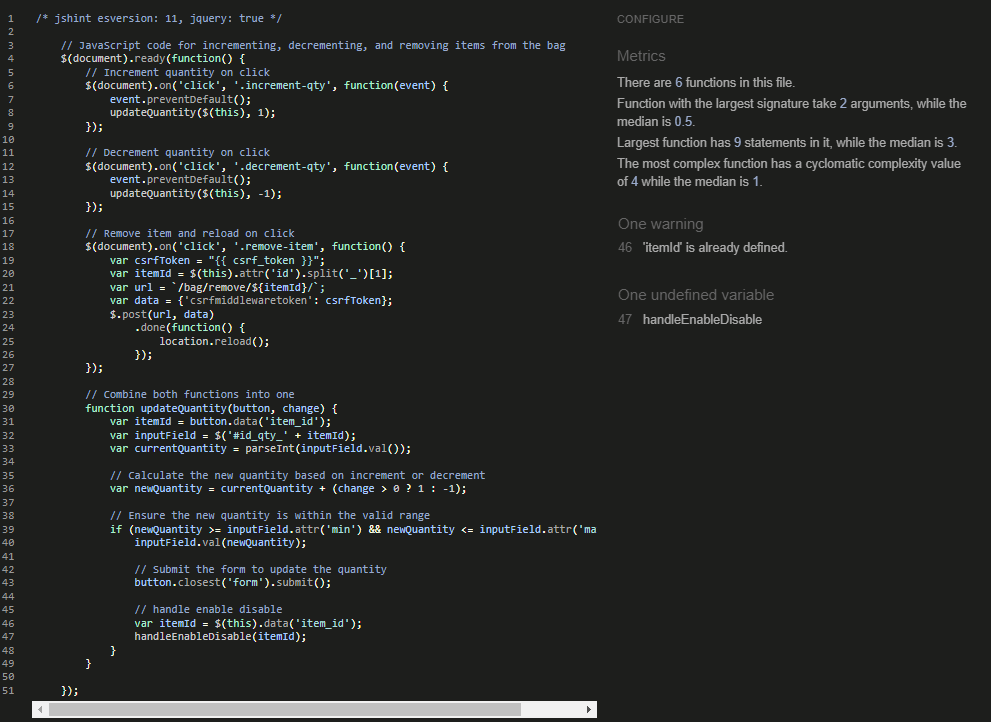
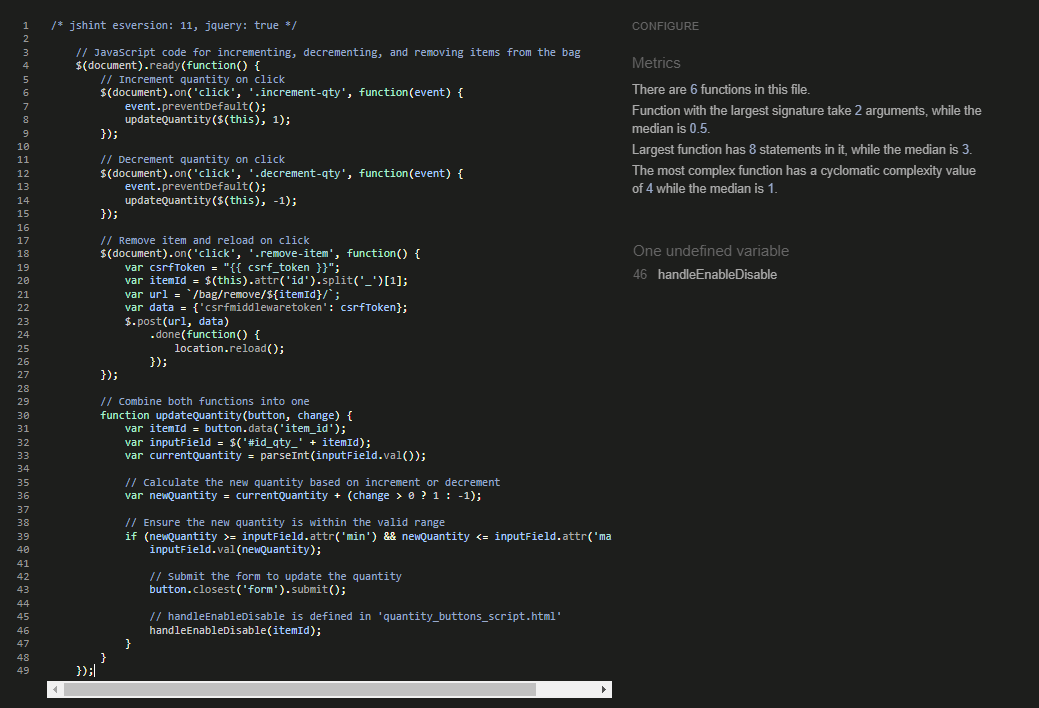
Rename quantity_buttons_script to enabledisable_buttons for clarity

diff --git a/bag/templates/bag/bag.html b/bag/templates/bag/bag.html
@@ -156,7 +156,7 @@
 {% block postloadjs %}
 {{ block.super }}
 <!-- Script for Quantity buttons enable and disable -->
-{% include 'products/includes/quantity_buttons_script.html' %}
+{% include 'products/includes/enabledisable_buttons_script.html' %}
 
 <script>
     /* jshint esversion: 11, jquery: true */
@@ -203,12 +203,10 @@
                 // Submit the form to update the quantity
                 button.closest('form').submit();
 
-                // handle enable disable
-                var itemId = $(this).data('item_id');
+                // handleEnableDisable is defined in 'quantity_buttons_script.html'
                 handleEnableDisable(itemId);
             }
         }
-
     });
 </script>
 {% endblock %}

diff --git a/products/templates/products/product_detail.html b/products/templates/products/product_detail.html
@@ -141,7 +141,7 @@
 {% block postloadjs %}
 {{ block.super }}
 <!-- Script for Quantity buttons enable and disable -->
-{% include 'products/includes/quantity_buttons_script.html' %}
+{% include 'products/includes/enabledisable_buttons_script.html' %}
 
 <!-- Script logic for incrementing/decrementing quantity -->
 <script>

diff --git a/TESTING.md b/TESTING.md
@@ -133,8 +133,12 @@ I have used the recommended [JShint Validator](https://jshint.com) to validate m
     - product_detail.html
     ![Product Detail JS Valid](documentation/productdetailjsvalid.webp)
 
-    - quantity_buttons_script.html
-    ![Quantity Button Script JS Valid](documentation/qbsjsvalid.webp)
+    - enabledisable_buttons_script.html
+    ![Enable/Disable Buttons Script JS Valid](documentation/qbsjsvalid.webp)
+
+    - bag.html
+    ![Bag JS Valid](documentation/bagjsvalid.webp)
+    N.B The 'handleEnableDisable' Is defined in the 'quantity_buttons_script.html'(Above), Which is included in the 'bag.html'. 
 
     - image_upload_preview_script.html
     ![Image Upload Script JS Valid](documentation/iupsjsvalid.webp)
@@ -142,8 +146,6 @@ I have used the recommended [JShint Validator](https://jshint.com) to validate m
     - stripe_element.js
      ![Stripe Element Script JS Valid](documentation/stripeelementjsvalid.webp)
 
-    - bag.html
-    ![Bag JS Valid](documentation/bagjsvalid.webp)
 
 
 ### PEP8
